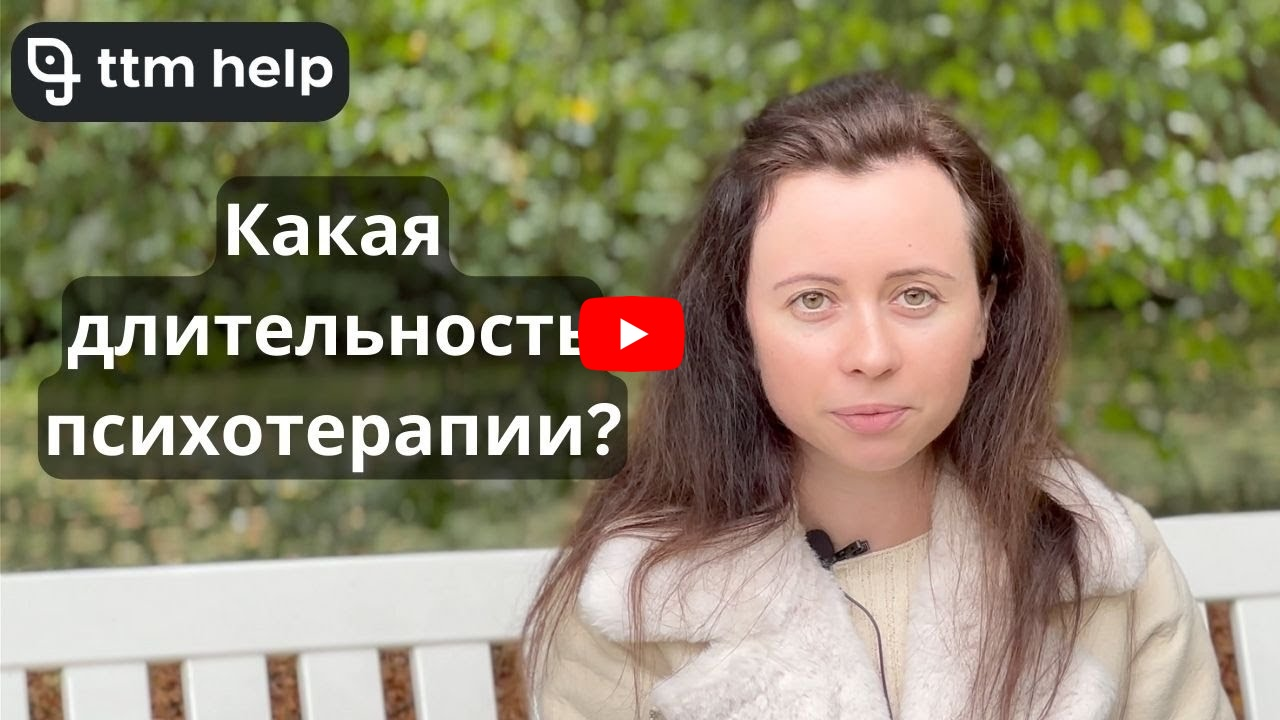
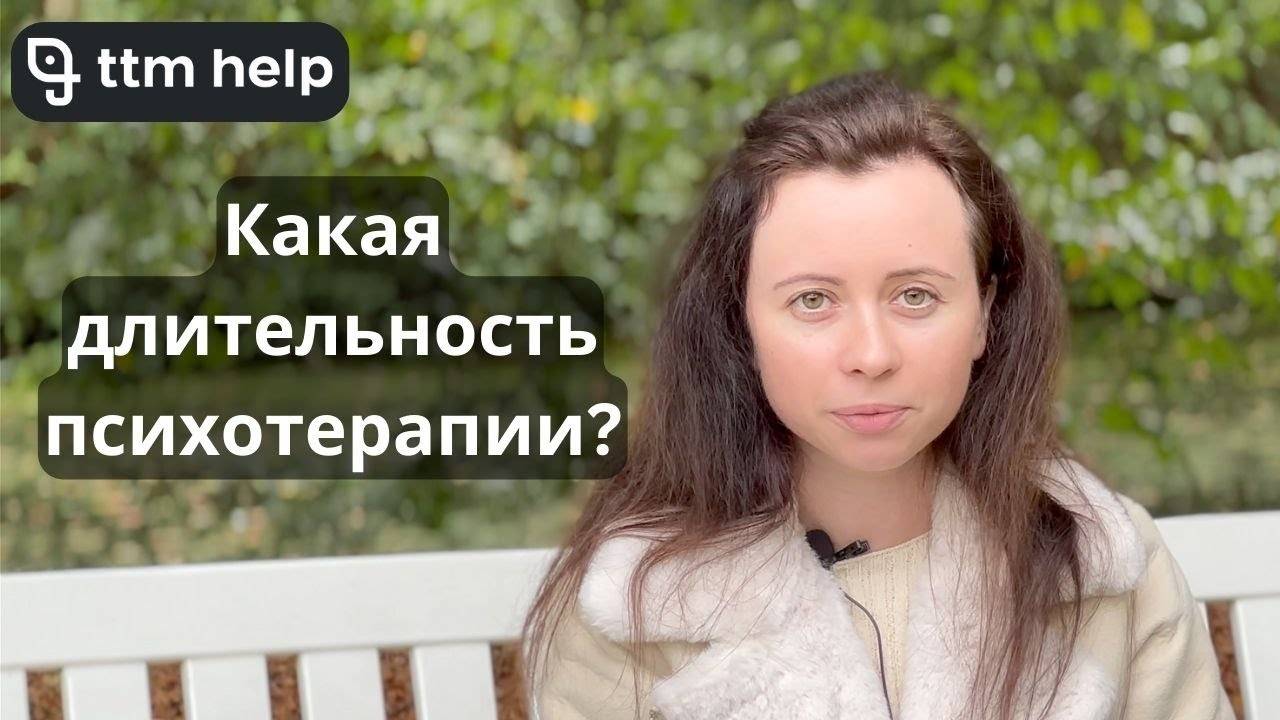
improve video player

Changed region(s): [[0.4375, 0.3972, 0.5625, 0.5194]]

diff --git a/assets/js/youCover.js b/assets/js/youCover.js
@@ -1,56 +1,25 @@
 window.addEventListener("load", function(){
-    var youCover = function(el, attributes){
-        const $el         = $(el), data = $el.data();
-        const coverUrl    = "https://i3.ytimg.com/vi/%yid%/hq720.jpg";
-        const $wrapper    = $("<a href='#'></a>");
-        const $iframe     = $("<iframe />");
-        const $cover      = $('<img id="youtube-cover" alt="Видео для просмотра" class="pt-1" style="z-index: 1"/>');
 
-        attributes = $.extend( {}, attributes, data);
-        $wrapper.addClass(attributes.wrapperclass);
+    const $wrapper = $('#video-play');
+    if(!$wrapper)
+        return;
 
+    $wrapper.click(function(){
+        var youtubeCover = $("<iframe />");
+
+        const $iframe = document.createElement("iframe");
+        $iframe.width = youtubeCover.width();
+        $iframe.height = youtubeCover.height();
+
+
+        const attributes = $("#video-wrapper").data();
         $(attributes).each(function(idx, attr){
             for(var key in attr){
-                $iframe.attr(key, attr[key]);
+                $iframe.setAttribute(key, attr[key]);
             }
         });
 
-        const coverImage  = coverUrl.replace("%yid%", youtube_parser(attributes.src));
-        $cover.attr('src', coverImage);
-        const $button = $('<img id="youtube-button" alt="Воспроизвести" src="/assets/images/social/youtube-button.png"/>');
-        $wrapper.append($cover);
-        $wrapper.append($button);
-
-        $el.replaceWith($wrapper);
-        $wrapper.addClass('loaded');
-        
-        $wrapper.click(function(){
-            var youtubeCover = $('#youtube-cover');    
-
-            $iframe.width = youtubeCover.width();
-            $iframe.height = youtubeCover.height();
-
-            $wrapper.parent().append($iframe);
-            $wrapper.remove();
-
-        });
-       
-        return $wrapper;
-    };
-
-    function youtube_parser(url){
-        var regExp = /.*\/(.*)\?/;
-        var match = url.match(regExp);
-        return match[1];
-    }
-
-    $.fn.youCover = function(attributes) {
-        attributes = $.extend( {}, $.fn.youCover.attributes, attributes );
-        
-        return $(this).each(function(){
-            if($(this).hasClass('loaded')) return this;
-            return new youCover(this, attributes);
-        });
-    };
-    $("[data-youcover]").youCover();
+        $wrapper.parent().append($iframe);
+        $wrapper.remove();
+    });
 });

diff --git a/_includes/video-block.html b/_includes/video-block.html
@@ -1,11 +1,19 @@
 <script src="/assets/js/youCover.js" async></script>
 
 <div class="video-container mb-3">
-    <div data-youcover data-width="100%"
-         data-src='{{ include.url }}?controls=1&amp;autoplay=1&amp;showinfo=0&amp;rel=0'
+    <div id="video-wrapper"
+         data-width="100%"
+         data-src='{{ page.video.url }}?controls=1&amp;autoplay=1&amp;showinfo=0&amp;rel=0'
          data-allowfullscreen
          data-loading='lazy'
          data-frameborder='0'
          data-allow='accelerometer; autoplay; clipboard-write; encrypted-media; gyroscope; picture-in-picture'>
+
+        <a href="#" id="video-play">
+            <img id="youtube-cover" alt="Видео для просмотра" class="pt-1"
+                 src="{{ page.video.image | default: page.image.url }}"
+                 style="z-index: 1"/>
+            <img id="youtube-button" alt="Воспроизвести" src="/assets/images/social/youtube-button.png"/>
+        </a>
     </div>
 </div>

diff --git a/_posts/2024/2024-03-13-interview-about-fear.md b/_posts/2024/2024-03-13-interview-about-fear.md
@@ -10,12 +10,10 @@ video:
     url: https://www.youtube.com/embed/w_UiW3XO_KY
     duration: PT29M56S
 image:
-  url: /assets/img/interview-about-fear.jpeg
+  url: /assets/img/interview-about-fear.jpg
 ---
 
-{% include video-block.html
-url=page.video.url
-%}
+{% include video-block.html %}
 
 
 Интервью с моей пациенткой Марией. С подросткового возраста страдала трихотилломанией, терапия заняла 6 блоков (1 блок - 1 месяц).   

diff --git a/_posts/2023/2023-04-30-ttm-definition-video.md b/_posts/2023/2023-04-30-ttm-definition-video.md
@@ -11,9 +11,7 @@ image:
   url: /assets/img/thumbnail-ttm-definition-video.jpg
 ---
 
-{% include video-block.html
-url=page.video.url
-%}
+{% include video-block.html %}
 
 На стресс и тревожные события все реагируют по-разному, у кого-то потеют
 ладони, кто-то начинает запинаться, кто-то грызет ногти, кто-то снимает стресс алкоголем, а кто-то вырывает волосы.  

diff --git a/_posts/2023/2023-10-12-duration-of-therapy.md b/_posts/2023/2023-10-12-duration-of-therapy.md
@@ -11,9 +11,7 @@ image:
   url: /assets/img/duration-of-ttm.jpg
 ---
 
-{% include video-block.html
-url=page.video.url
-%}
+{% include video-block.html %}
 
 Пожалуй, самый популярный вопрос на диагностических консультациях - вопрос о сроках терапии.
 В связи с этим я решила осветить его достаточно подробно.  

diff --git a/_posts/2023/2023-03-20-interview.md b/_posts/2023/2023-03-20-interview.md
@@ -11,9 +11,7 @@ image:
   url: /assets/img/interview-thumbnail-1.jpg
 ---
 
-{% include video-block.html
-url=page.video.url
-%}
+{% include video-block.html %}
 
 Всем доброго времени!   
 Меня зовут Оксана Коновалова я психотерапевт и специализируюсь на работе 

diff --git a/index.md b/index.md
@@ -19,9 +19,7 @@ image:
     <div class="intro mb-10">
         <div class="row mt-2 mb-4">
             <div class="col">
-                {% include video-block.html
-                    url=page.video.url
-                %}
+                {% include video-block.html %}
             </div>
         </div>
         <div class="row mt-1">

diff --git a/_posts/2023/2023-06-20-therapy-is-cool-interview.md b/_posts/2023/2023-06-20-therapy-is-cool-interview.md
@@ -11,9 +11,7 @@ image:
   url: /assets/img/interview-thumbnail-3.jpg
 ---
 
-{% include video-block.html
-url=page.video.url
-%}
+{% include video-block.html %}
 
 **Оксана:**   
 Всем доброго времени!   
